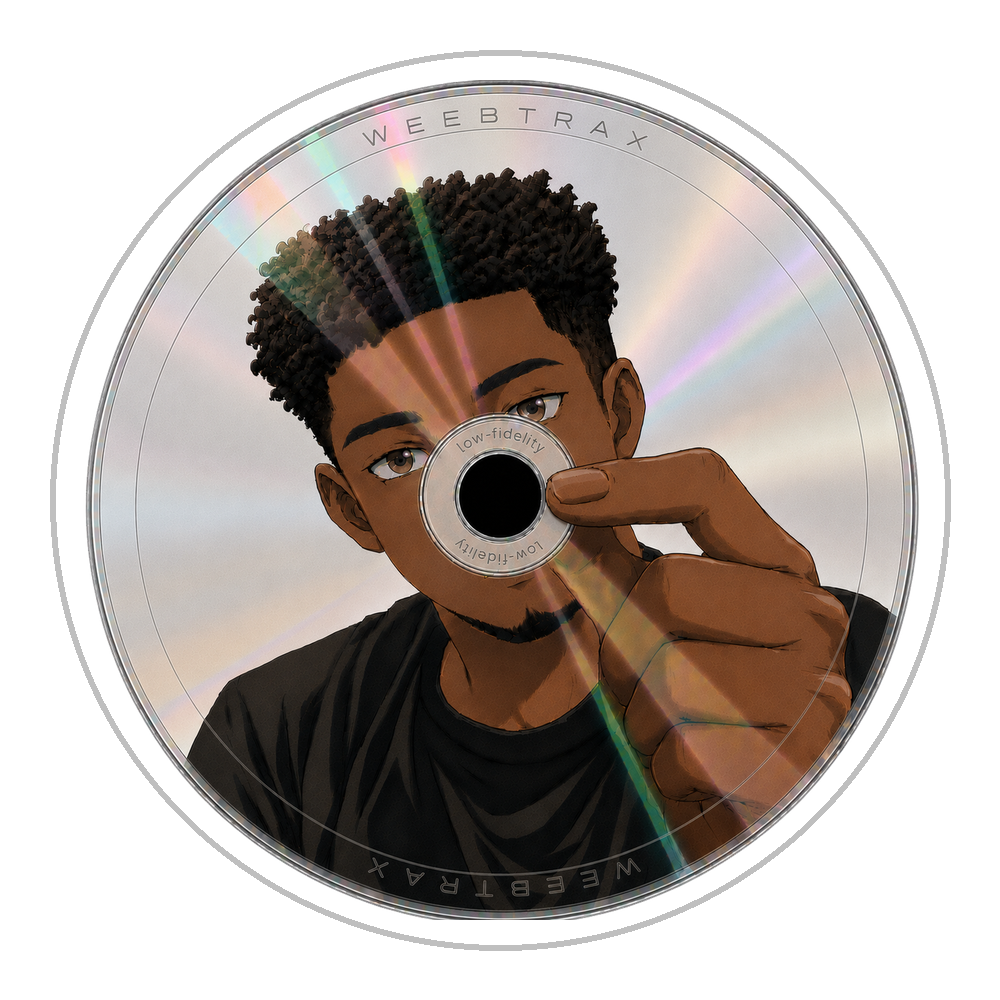
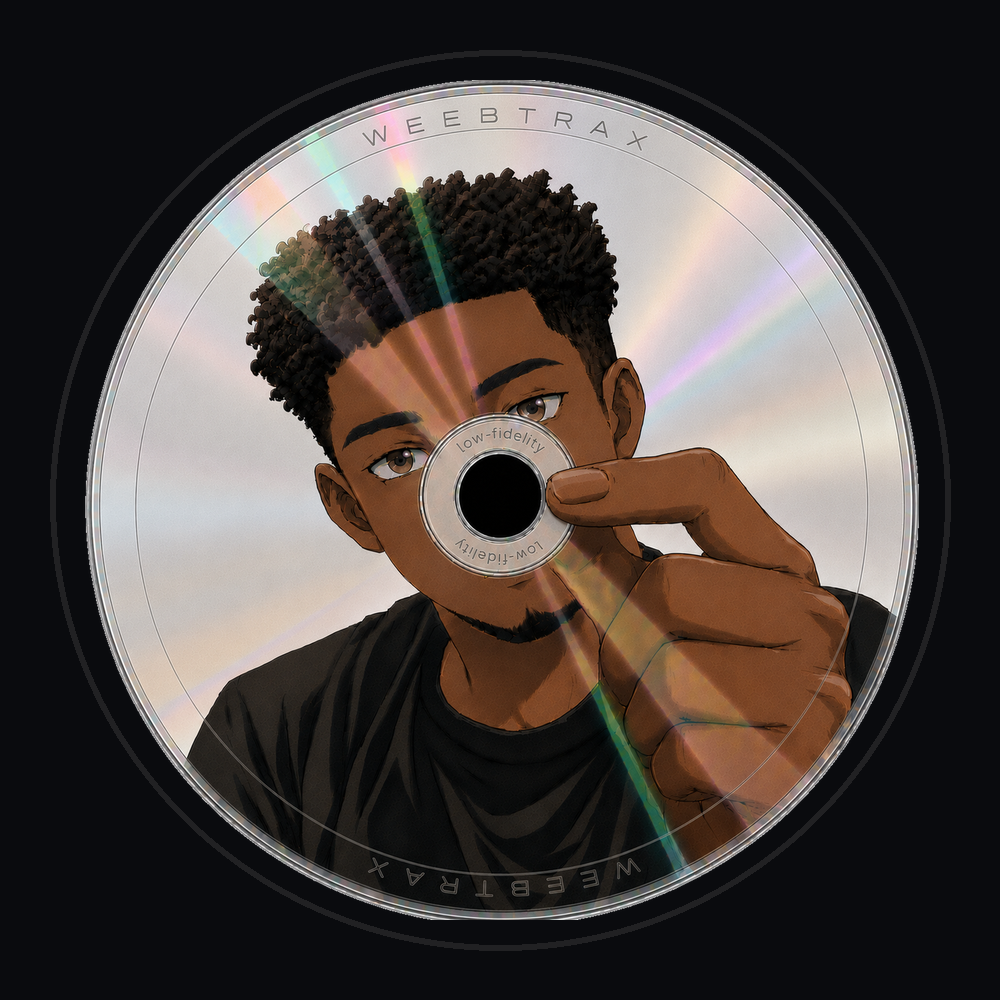
fix: bake solid #0a0b0e background into social profile pics
Transparent PNGs were getting auto-flattened and JPEG-recompressed by
Instagram/TikTok/SoundCloud/YouTube on upload, softening the mascot's
line art edges. Baking in an opaque background matching the site's
dark theme avoids that platform-side flattening pass.

diff --git a/brand/socials/gen_profile_placeholders.py b/brand/socials/gen_profile_placeholders.py
@@ -1,7 +1,9 @@
 """
 Generates profile-picture images at each platform's recommended upload
-dimensions: a transparent background, the WeebTrax mascot centered on top,
-and a dark gray circle showing the final circular crop zone.
+dimensions: a solid #0a0b0e background (matches the site's dark theme), the
+WeebTrax mascot centered on top, and a dark gray circle showing the final
+circular crop zone. A solid background avoids the alpha-flattening pass
+platforms apply to transparent uploads, which can soften edges.
 
 Run: cd brand/socials && python3 gen_profile_placeholders.py
 """
@@ -26,6 +28,8 @@ PLATFORMS = [
     {"name": "TikTok", "size": 720, "file": "tiktok_profile.png"},
     {"name": "YouTube", "size": 800, "file": "youtube_profile.png"},
 ]
+
+BG_COLOR = "#0a0b0e"
 
 CROP_CIRCLE_COLOR = "#4A4A4A"
 CROP_CIRCLE_MARGIN_RATIO = 0.05  # inset from the canvas edge
@@ -66,12 +70,12 @@ def draw_mascot(canvas, size, mascot):
 
 
 def make_profile_image(size, filename, mascot):
-    canvas = Image.new("RGBA", (size, size), (0, 0, 0, 0))
+    canvas = Image.new("RGBA", (size, size), BG_COLOR)
     draw_mascot(canvas, size, mascot)
     draw_crop_circle(canvas, size)
 
     out_path = os.path.join(OUTPUT_DIR, filename)
-    canvas.save(out_path, "PNG", optimize=True)
+    canvas.convert("RGB").save(out_path, "PNG", optimize=True)
     print(f"wrote {out_path} ({size}x{size})")
 
 
